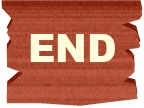
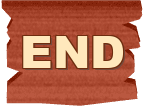
Fix coop signs

Changed region(s): [[0.1389, 0.3056, 0.8889, 0.6667]]

diff --git a/mainapp/Classes/Menu/CoopScene.cpp b/mainapp/Classes/Menu/CoopScene.cpp
@@ -505,39 +505,24 @@ void CoopScene::setupCoop()
         }
     }
 
-    // ---- Decorative animated "ba" GIF in the empty first slot (slot 0) ----
+    // ---- Decorative "START / MULA" sign in the empty first slot (slot 0) ----
+    // The English build resolves this to MainScene/coop_startsign.png ("START");
+    // the ms-MY build's localized search path picks up the "MULA" variant.
+    // Mirrors the same logic as the END/TAMAT sign in slot 11 above.
+    // Applied to both Literacy and Math coops.
     {
-        const int FRAME_COUNT = 32;
-        const float FRAME_DELAY = 0.08f; // ~12.5 fps; tweak if needed
-        Vector<SpriteFrame*> frames;
-        Sprite* firstSprite = nullptr;
-        for (int i = 0; i < FRAME_COUNT; ++i) {
-            char fn[64];
-            snprintf(fn, sizeof(fn), "MainScene/animated_ba/animated_ba_%03d.png", i);
-            auto sp = Sprite::create(fn);
-            if (!sp) continue;
-            if (!firstSprite) firstSprite = sp;
-            frames.pushBack(sp->getSpriteFrame());
-        }
-        if (firstSprite && frames.size() > 0) {
-            // Position in slot 0 (top-left of shelf grid)
+        auto sign = Sprite::create("MainScene/coop_startsign.png");
+        if (sign) {
             int slot = 0;
             float x = (slot%4) * roomSize.width + (coopSize.width - roomSize.width*4)/2.f + roomSize.width/2.f;
-            float y = (2 - (slot/4)) * roomSize.height + roomSize.height/2.f;
-
-            auto deco = Sprite::createWithSpriteFrame(frames.at(0));
-            deco->setAnchorPoint(Vec2::ANCHOR_MIDDLE);
-            deco->setPosition(Vec2(x, y));
-            // Fit within room (leave a bit of margin)
+            float y = (2 - (slot/4)) * roomSize.height + roomSize.height/2.f + 80;
+            sign->setAnchorPoint(Vec2::ANCHOR_MIDDLE);
+            sign->setPosition(Vec2(x, y));
             float maxSide = std::min(roomSize.width, roomSize.height) * 0.7f;
-            float s = std::min(maxSide / deco->getContentSize().width,
-                               maxSide / deco->getContentSize().height);
-            deco->setScale(s);
-            _coopView->addChild(deco);
-
-            auto anim = Animation::createWithSpriteFrames(frames, FRAME_DELAY);
-            anim->setLoops(-1);
-            deco->runAction(RepeatForever::create(Animate::create(anim)));
+            float s = std::min(maxSide / sign->getContentSize().width,
+                               maxSide / sign->getContentSize().height);
+            sign->setScale(s);
+            _coopView->addChild(sign);
             addSlotCover(slot);
         }
     }
